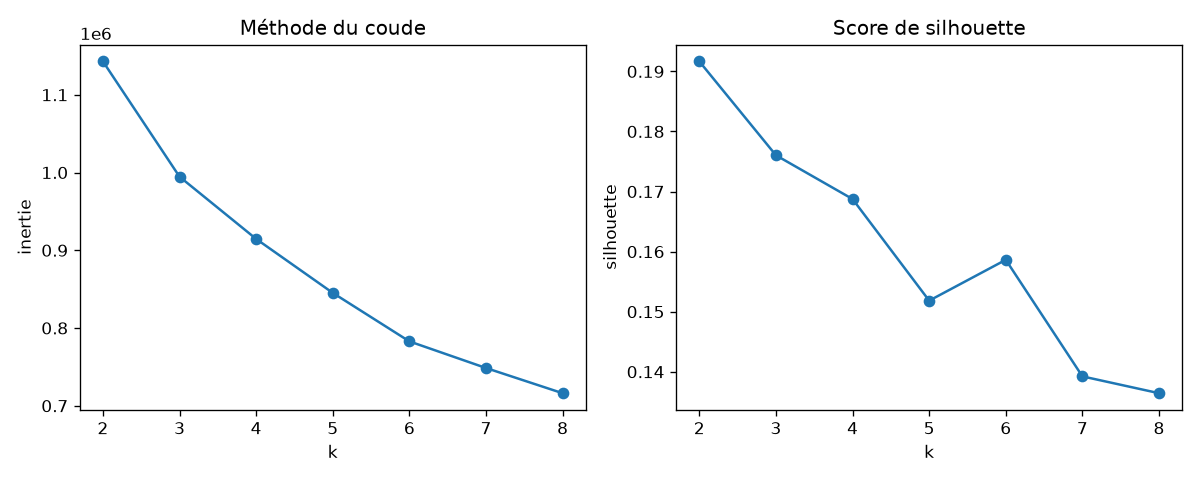
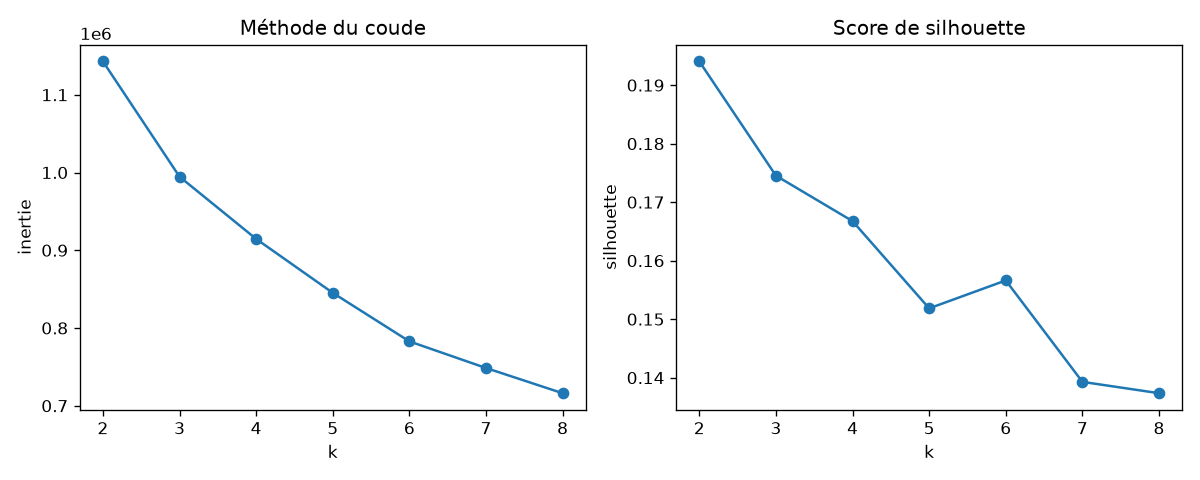
Clustering : numérotation des segments stable d'une exécution à l'autre
- tri des clients par user_id (group_by Polars rend un ordre aléatoire,
  ce qui changeait le K-means à chaque exécution)
- segments renumérotés par nombre moyen de commandes croissant :
  0 = occasionnels, 1 = petits paniers, 2 = fidèles (comme au J2)
- tests/test_clustering.py : 2 tests de la renumérotation
- dvc repro : quality gate accepté (XGBoost PR-AUC 0.424)

diff --git a/src/clustering.py b/src/clustering.py
@@ -60,7 +60,21 @@ def construire_variables() -> pl.DataFrame:
             part_frais=pl.col("frais").mean(),
         )
     )
-    return commandes_client.join(achats_client, on="user_id").collect()
+    # tri par client : group_by de Polars rend les lignes dans un ordre aléatoire,
+    # ce qui changerait le résultat du K-means d'une exécution à l'autre
+    return commandes_client.join(achats_client, on="user_id").sort("user_id").collect()
+
+
+def numeroter_segments(labels: np.ndarray, nb_commandes: np.ndarray) -> np.ndarray:
+    """Renumérote les segments par nombre moyen de commandes croissant.
+
+    Le K-means numérote ses groupes au hasard : sans ce tri, le segment
+    « fidèles » pourrait s'appeler 0 un jour et 2 le lendemain.
+    """
+    ordre = np.argsort([nb_commandes[labels == s].mean() for s in np.unique(labels)])
+    nouveau = np.empty_like(ordre)
+    nouveau[ordre] = np.arange(len(ordre))
+    return nouveau[labels]
 
 
 def main() -> None:
@@ -90,7 +104,8 @@ def main() -> None:
     # k retenu : meilleure silhouette entre 3 et 6 segments (utilisables par le métier), sauf choix imposé
     k = K_FORCE or max((r for r in resultats if 3 <= r[0] <= 6), key=lambda r: r[2])[0]
     km = KMeans(n_clusters=k, n_init=10, random_state=GRAINE).fit(X)
-    clients = clients.with_columns(segment=pl.Series(km.labels_))
+    segments = numeroter_segments(km.labels_, clients["nb_commandes"].to_numpy())
+    clients = clients.with_columns(segment=pl.Series(segments))
     print(f"\nk retenu : {k}")
 
     # 3. Profil moyen de chaque segment (pour le nommer)
@@ -109,7 +124,7 @@ def main() -> None:
     idx = np.random.default_rng(GRAINE).choice(len(X), size=5_000, replace=False)
     coords = PCA(n_components=2, random_state=GRAINE).fit_transform(X)[idx]
     fig, ax = plt.subplots(figsize=(6, 5))
-    nuage = ax.scatter(coords[:, 0], coords[:, 1], c=km.labels_[idx], cmap="tab10", s=6, alpha=0.6)
+    nuage = ax.scatter(coords[:, 0], coords[:, 1], c=segments[idx], cmap="tab10", s=6, alpha=0.6)
     ax.legend(*nuage.legend_elements(), title="segment"); ax.set(title="Segments clients (ACP 2D)", xlabel="CP1", ylabel="CP2")
     fig.tight_layout(); fig.savefig(SORTIE / "segments_acp.png", dpi=120); plt.close(fig)
     print(f"\nGraphiques et profils enregistrés dans {SORTIE}/")

diff --git a/tests/test_clustering.py b/tests/test_clustering.py
@@ -1,0 +1,18 @@
+"""Tests de la numérotation stable des segments (sans données)."""
+import numpy as np
+
+from src.clustering import numeroter_segments
+
+
+def test_segments_numerotes_par_nb_commandes_croissant():
+    # le K-means a appelé « 0 » le groupe des gros clients
+    labels = np.array([0, 0, 1, 1, 2, 2])
+    nb_commandes = np.array([30, 34, 5, 7, 10, 12])
+    assert numeroter_segments(labels, nb_commandes).tolist() == [2, 2, 0, 0, 1, 1]
+
+
+def test_meme_groupes_meme_numeros_quel_que_soit_le_label_kmeans():
+    nb_commandes = np.array([30, 34, 5, 7, 10, 12])
+    a = numeroter_segments(np.array([0, 0, 1, 1, 2, 2]), nb_commandes)
+    b = numeroter_segments(np.array([2, 2, 0, 0, 1, 1]), nb_commandes)
+    assert a.tolist() == b.tolist()
